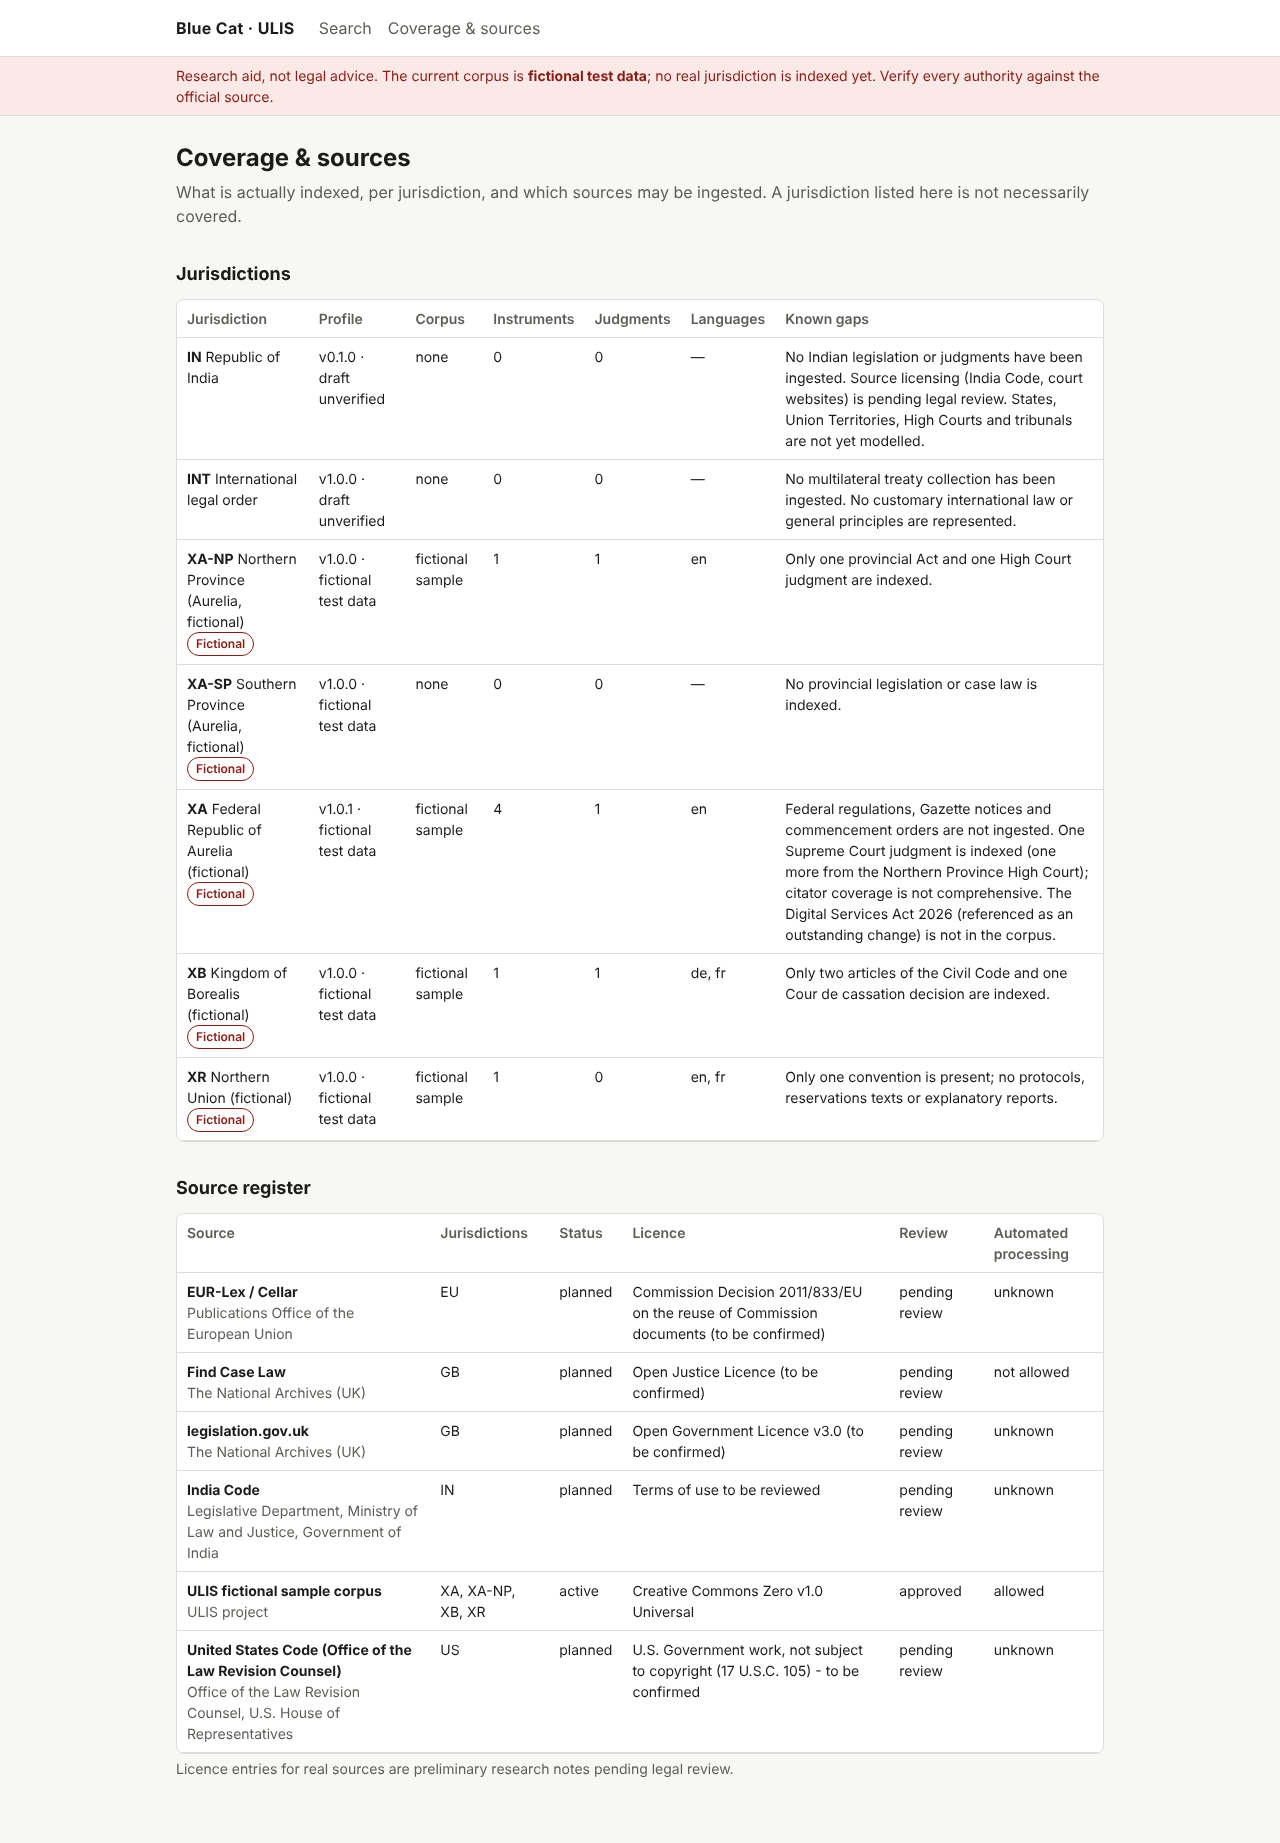
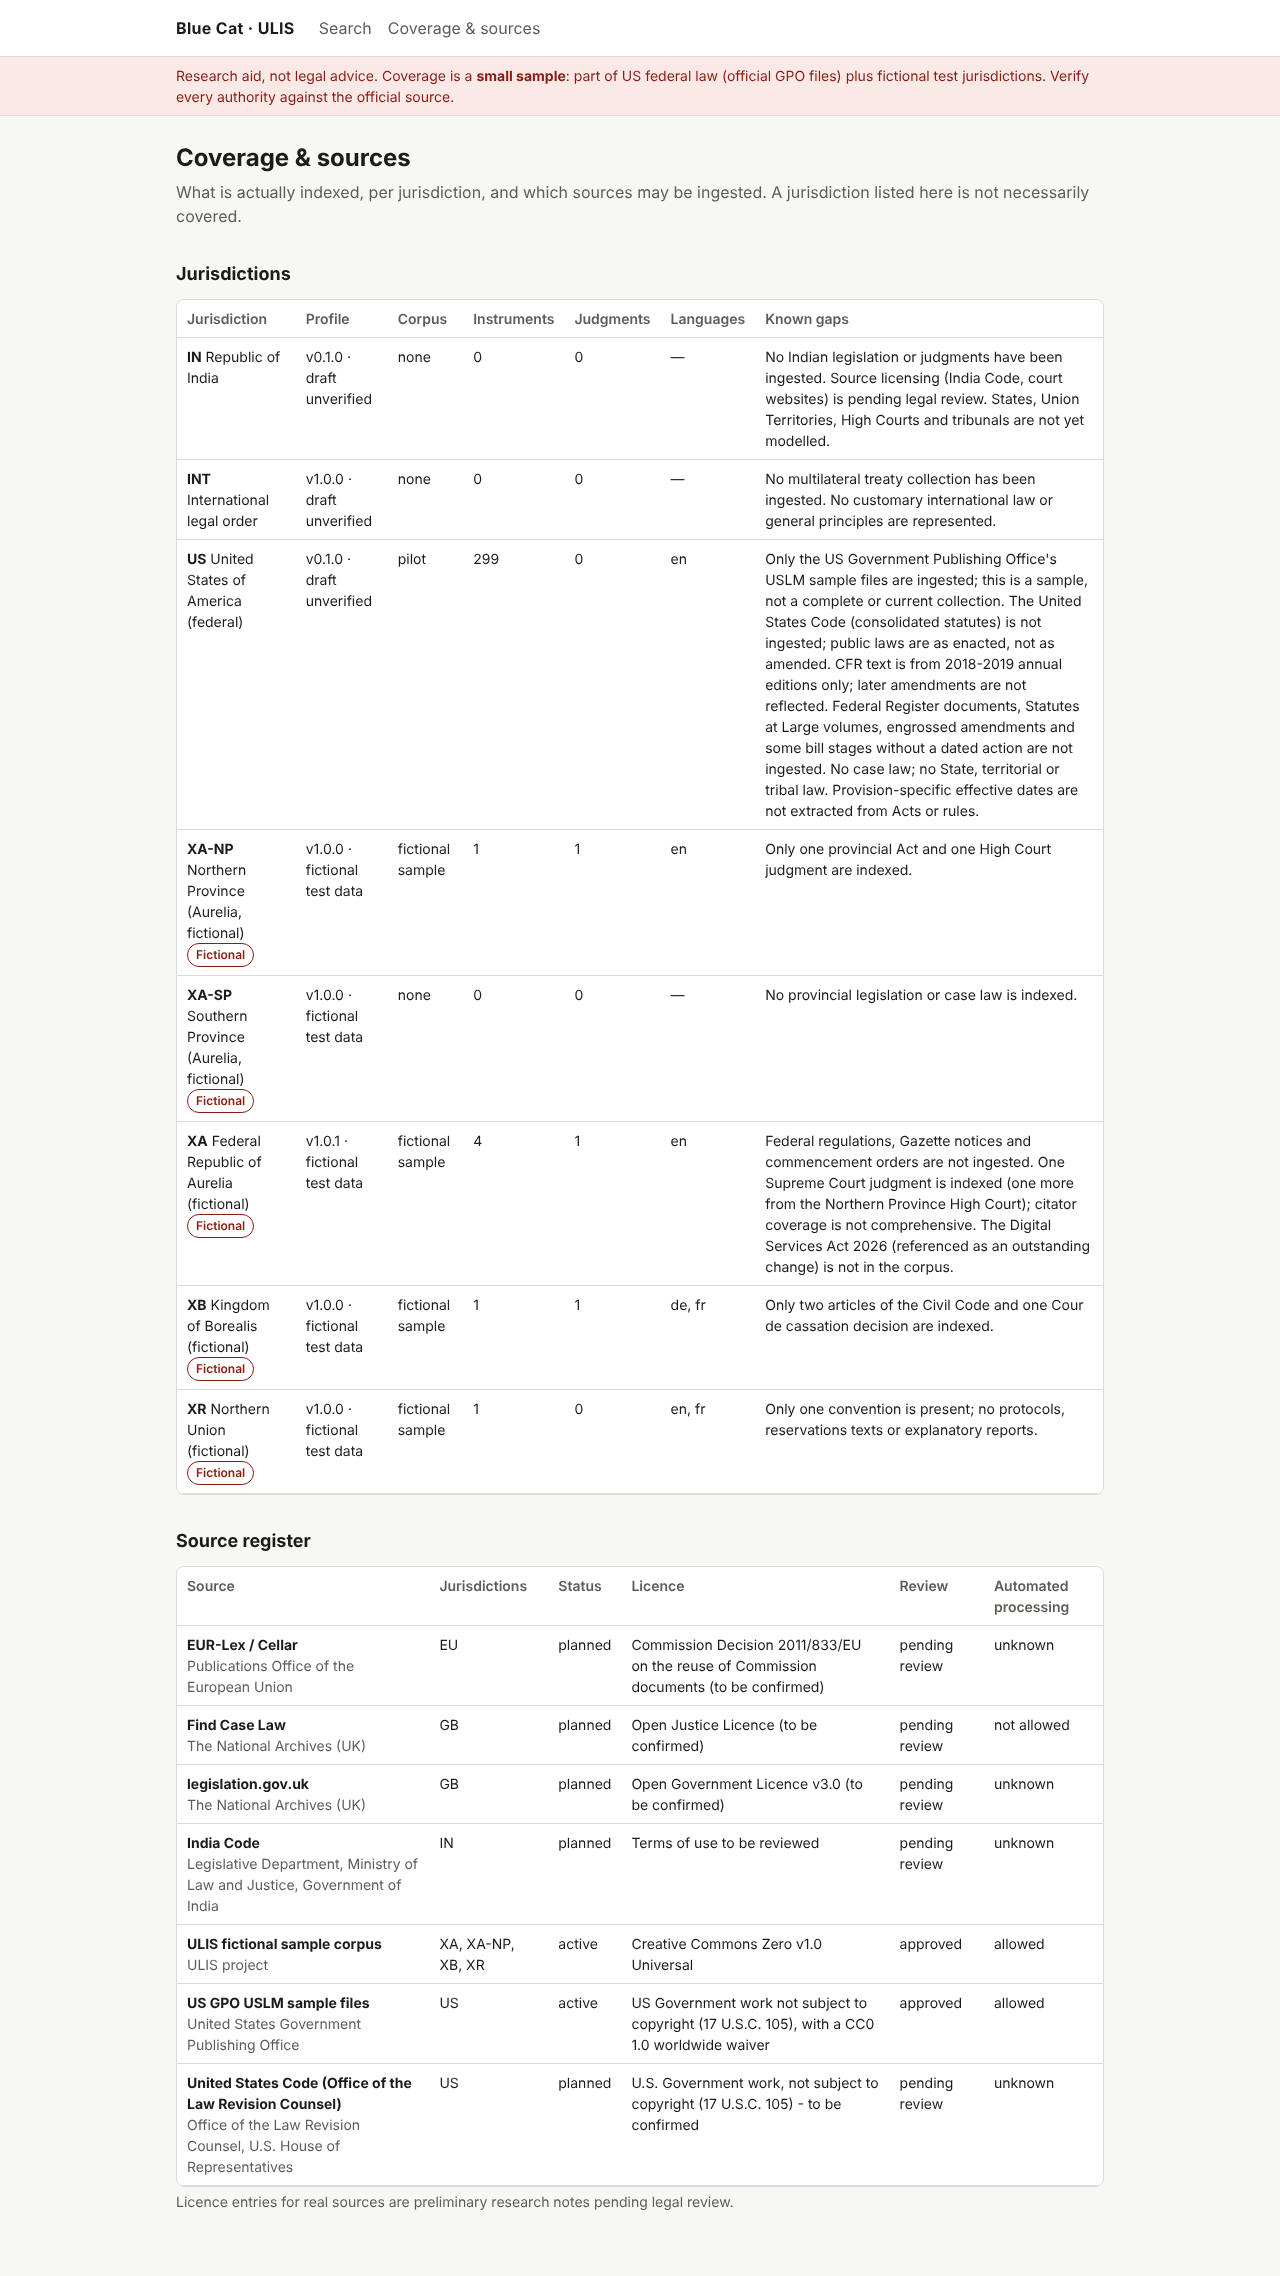
Show real US federal results; add question-language control
- Question language selector (default English) passed as query_language to avoid
  cross-language false friends in concept expansion
- Ranking breakdown shows the long-passage factor
- Banner and README describe the current coverage (US federal sample + fictional)
- End-to-end tests for a real US public law and a real CFR regulation; refreshed screenshots

Claude-Session: https://claude.ai/code/session_011ZuJgLyeVSor3tAE326Uas

diff --git a/lib/search-params.ts b/lib/search-params.ts
@@ -9,12 +9,14 @@ export interface SearchForm {
   includeProposed: boolean;
   includeProspective: boolean;
   includeHistorical: boolean;
+  queryLanguage: string;
   limit: number;
 }
 
 type RawParams = Record<string, string | string[] | undefined>;
 
 const ISO_DATE = /^\d{4}-\d{2}-\d{2}$/;
+const LANG = /^[a-z]{2,3}$/;
 const ID = /^[A-Z]{2,3}(-[A-Z0-9]{1,8})*$/;
 
 function first(value: string | string[] | undefined): string {
@@ -26,6 +28,9 @@ export function parseSearchForm(raw: RawParams): SearchForm {
   const jurisdiction = first(raw.jurisdiction);
   const forumCourt = first(raw.forum_court);
   const limit = Number.parseInt(first(raw.limit) || "10", 10);
+  // English by default; "any" lets concept labels match in every language (risk of false friends).
+  const rawLang = raw.query_language === undefined ? "en" : first(raw.query_language);
+  const queryLanguage = rawLang === "any" || LANG.test(rawLang) ? rawLang : "en";
   return {
     q: first(raw.q).slice(0, 500),
     jurisdiction: ID.test(jurisdiction) ? jurisdiction : "",
@@ -35,6 +40,7 @@ export function parseSearchForm(raw: RawParams): SearchForm {
     includeProposed: first(raw.include_proposed) === "on",
     includeProspective: first(raw.include_prospective) === "on",
     includeHistorical: first(raw.include_historical) === "on",
+    queryLanguage,
     limit: Number.isFinite(limit) ? Math.min(Math.max(limit, 1), 50) : 10,
   };
 }
@@ -48,5 +54,6 @@ export function buildSearchParams(form: SearchForm): URLSearchParams {
   if (form.includeProposed) p.set("include_proposed", "true");
   if (form.includeProspective) p.set("include_prospective", "true");
   if (form.includeHistorical) p.set("include_historical", "true");
+  if (form.queryLanguage && form.queryLanguage !== "any") p.set("query_language", form.queryLanguage);
   return p;
 }

diff --git a/tests/e2e/research.spec.ts b/tests/e2e/research.spec.ts
@@ -40,6 +40,27 @@ test("a jurisdiction without a corpus says so instead of answering", async ({ pa
   await expect(page.getByText("This is not evidence that no law applies")).toBeVisible();
 });
 
+test("real US federal law: enacted statute with citation, presumed effective date and no pre-enactment hit", async ({
+  page,
+}) => {
+  await page.goto("/?q=women+STEM+disciplines&jurisdiction=US&as_of=2018-01-01");
+  const first = page.getByTestId("result").first();
+  await expect(first.locator(".citation")).toContainText("Pub. L. No. 115-6");
+  await expect(first.locator(".citation")).toContainText("131 Stat. 11 (2017)");
+  await expect(first.locator('[data-code="EFFECTIVE_DATE_PRESUMED"]')).toBeVisible();
+  await expect(first.locator(".tag.fictional")).toHaveCount(0);
+  if (shots) await page.screenshot({ path: `${shots}/us-public-law.png`, fullPage: false });
+  await page.goto("/?q=women+STEM+disciplines&jurisdiction=US&as_of=2016-01-01");
+  await expect(page.getByTestId("result")).toHaveCount(0);
+});
+
+test("real US regulation is flagged as attested only at its CFR edition date", async ({ page }) => {
+  await page.goto("/?q=licensed+importer+records+of+firearms&jurisdiction=US&as_of=2018-06-01");
+  const first = page.getByTestId("result").first();
+  await expect(first.locator(".citation")).toContainText("27 C.F.R. § 478.");
+  await expect(first.locator('[data-code="ATTESTED_ONLY_AT"]')).toBeVisible();
+});
+
 test("cross-lingual search groups equally authentic language versions", async ({ page }) => {
   await page.goto("/?q=erasure&jurisdiction=XB&as_of=2024-01-01");
   const card = page.getByTestId("result").filter({ hasText: "al. 3" }).first();

diff --git a/tests/unit/lib.test.ts b/tests/unit/lib.test.ts
@@ -24,6 +24,7 @@ describe("parseSearchForm", () => {
       includeProposed: true,
       includeProspective: false,
       includeHistorical: false,
+      queryLanguage: "en",
       limit: 20,
     });
   });
@@ -44,7 +45,9 @@ describe("parseSearchForm", () => {
 describe("buildSearchParams", () => {
   it("only sends set options", () => {
     const p = buildSearchParams(parseSearchForm({ q: "privacy" }));
-    expect(p.toString()).toBe("q=privacy&limit=10");
+    expect(p.toString()).toBe("q=privacy&limit=10&query_language=en");
+    const anyLang = buildSearchParams(parseSearchForm({ q: "privacy", query_language: "any" }));
+    expect(anyLang.has("query_language")).toBe(false);
     const full = buildSearchParams(
       parseSearchForm({ q: "privacy", jurisdiction: "XB", as_of: "2024-01-01", include_historical: "on" }),
     );
@@ -54,6 +57,7 @@ describe("buildSearchParams", () => {
       jurisdiction: "XB",
       as_of: "2024-01-01",
       include_historical: "true",
+      query_language: "en",
     });
   });
 });

diff --git a/app/page.tsx b/app/page.tsx
@@ -67,6 +67,15 @@ export default async function SearchPage({ searchParams }: Props) {
             <input type="date" name="as_of" defaultValue={form.asOf} />
           </label>
           <label>
+            Question language
+            <select name="query_language" defaultValue={form.queryLanguage}>
+              <option value="en">English</option>
+              <option value="fr">French</option>
+              <option value="de">German</option>
+              <option value="any">Any (wider cross-lingual matching)</option>
+            </select>
+          </label>
+          <label>
             Forum court (optional)
             <select name="forum_court" defaultValue={form.forumCourt}>
               <option value="">Not specified</option>

diff --git a/app/layout.tsx b/app/layout.tsx
@@ -26,8 +26,8 @@ export default function RootLayout({ children }: { children: ReactNode }) {
         </header>
         <div className="notice" role="note">
           <div className="container">
-            Research aid, not legal advice. The current corpus is <strong>fictional test data</strong>; no real
-            jurisdiction is indexed yet. Verify every authority against the official source.
+            Research aid, not legal advice. Coverage is a <strong>small sample</strong>: part of US federal law (official
+            GPO files) plus fictional test jurisdictions. Verify every authority against the official source.
           </div>
         </div>
         <main>

diff --git a/components/ResultCard.tsx b/components/ResultCard.tsx
@@ -157,6 +157,9 @@ export function ResultCard({ hit, asOf }: { hit: SearchHit; asOf: string }) {
         <p className="mono">
           final {hit.score.final} = lexical {hit.score.lexical} × authority {hit.score.authority_weight}
           {hit.score.matched_via === "concept_expansion" ? " × 0.8 (concept expansion)" : ""}
+          {hit.score.length_factor !== undefined && hit.score.length_factor < 1
+            ? ` × ${hit.score.length_factor} (long passage)`
+            : ""}
         </p>
       </details>
     </article>

diff --git a/lib/types.ts b/lib/types.ts
@@ -96,7 +96,7 @@ export interface SearchHit {
   citation: string;
   authority: Authority;
   source: SourceInfo;
-  score: { final: number; lexical: number; authority_weight: number; matched_via: string };
+  score: { final: number; lexical: number; authority_weight: number; length_factor?: number; matched_via: string };
   parallel_versions?: ParallelVersion[];
   timeline?: TimelineEntry[];
   treatment?: { judicial: Treatment[]; legislative: Treatment[] } | Treatment[];

diff --git a/README.md b/README.md
@@ -5,8 +5,8 @@ backend, data model and design documents are in
 [`Blue-Cat-Backend`](https://github.com/CHEDFOX/Blue-Cat-Backend) (start with
 `docs/architecture.md`).
 
-> Research aid, not legal advice. The current corpus is **fictional test data**; no real
-> jurisdiction is indexed yet.
+> Research aid, not legal advice. Coverage is a small sample: part of US federal law (official
+> GPO files) plus fictional test jurisdictions.
 
 ## Features
 
